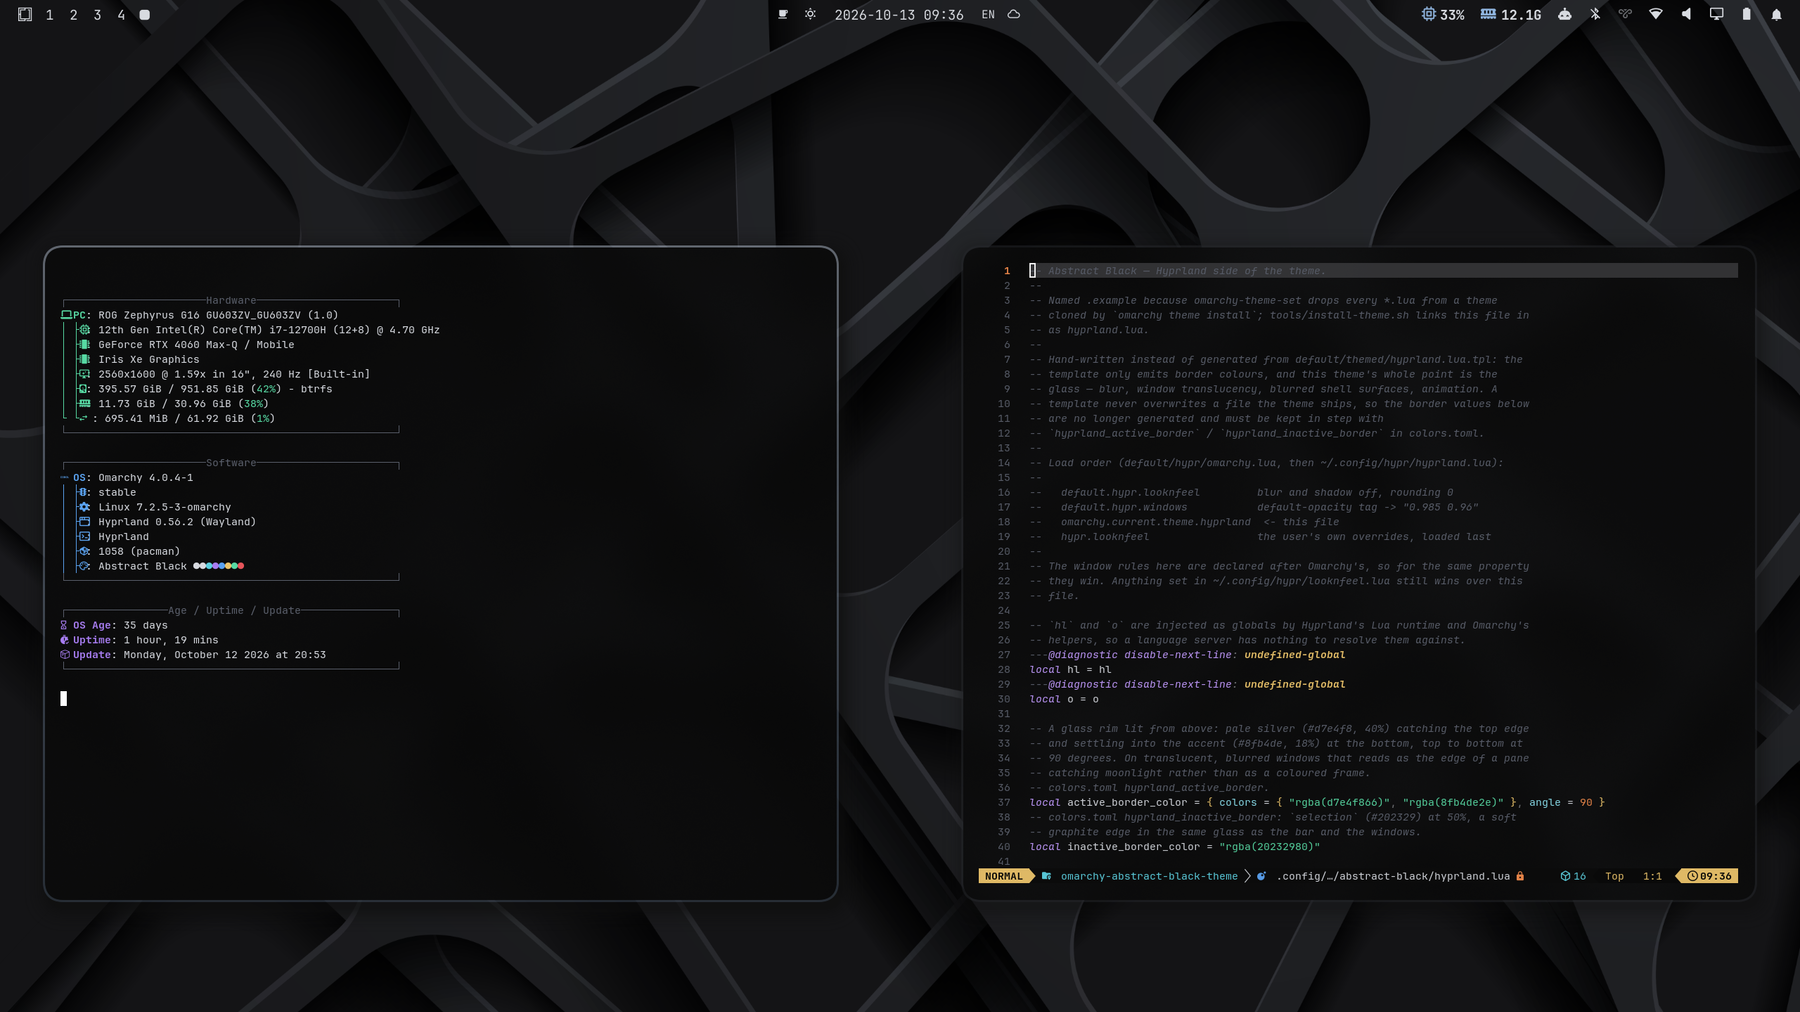
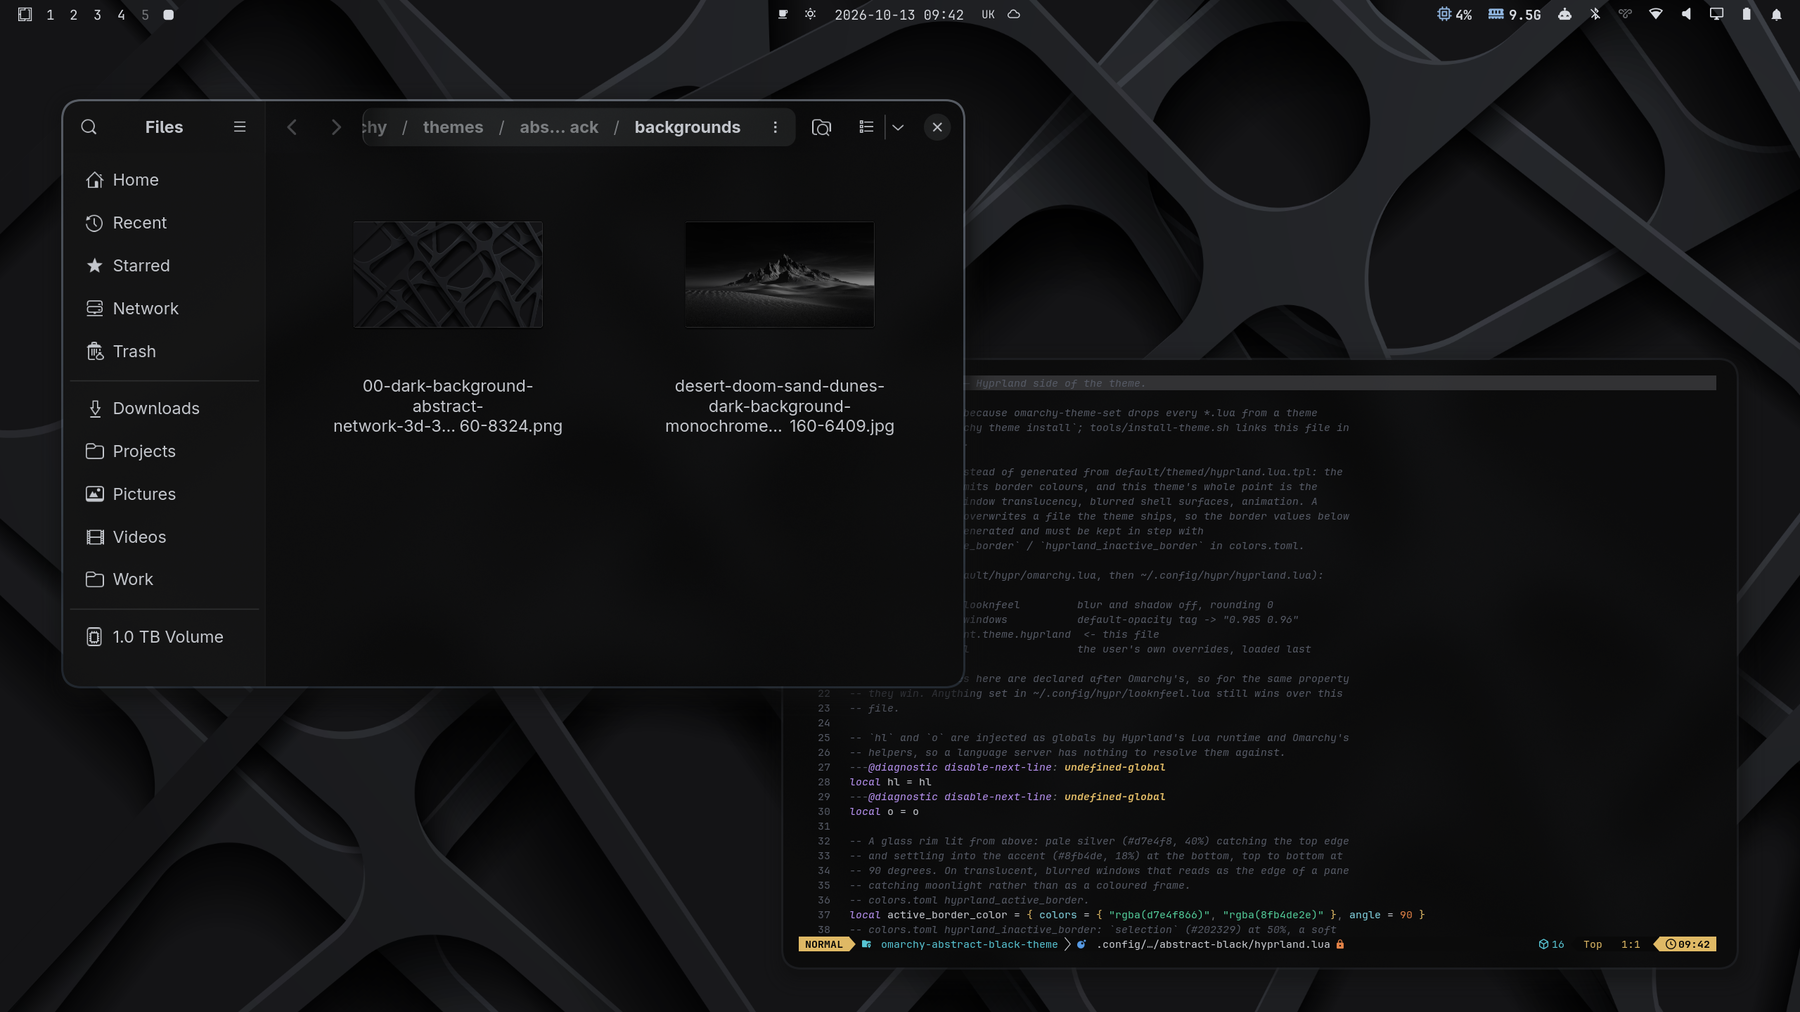
Shoot the previews with Files and an editor
The fastfetch window was mostly empty at preview size. Files on the theme's
wallpapers shows the GTK side of the theme and the wallpapers themselves.

The capture script also scales the editor font with the screen, parks the
pointer off-screen, returns to its workspace before each shot (applying a
theme hands focus to a window elsewhere) and crops from the top so a 16:10
panel keeps the bar.

diff --git a/README.md b/README.md
@@ -124,8 +124,8 @@ The full theme. Needs Omarchy 4 (Hyprland with the Lua config and the Quickshell
      workspace and run `PREVIEW_WORKSPACE=<n> ./tools/capture-preview.sh`. It
      applies each look for real — the gallery install included, staged the way
      Omarchy would stage a clone — screenshots it (with `grim`, `foot`,
-     `fastfetch` and `nvim`, all shipped with Omarchy) and puts your previous
-     theme back.
+     `nvim` and Files, all shipped with Omarchy; close Files first) and puts
+     your previous theme back.
 
 ### Update
 

diff --git a/CLAUDE.md b/CLAUDE.md
@@ -138,7 +138,7 @@ Re-applying advances the wallpaper rotation; this machine pins it back with
 
 Editing `colors.toml` makes `preview.png` and `preview-full.png` stale
 (`PREVIEW_WORKSPACE=<n> ./tools/capture-preview.sh`, needs an empty
-workspace; commit first, Neovim's git signs mark uncommitted lines in the
+workspace and Files closed; commit first, Neovim's git signs mark uncommitted lines in the
 shot) and `unlock.png` / `preview-unlock.png` stale
 (`./tools/generate-unlock.sh`).
 
